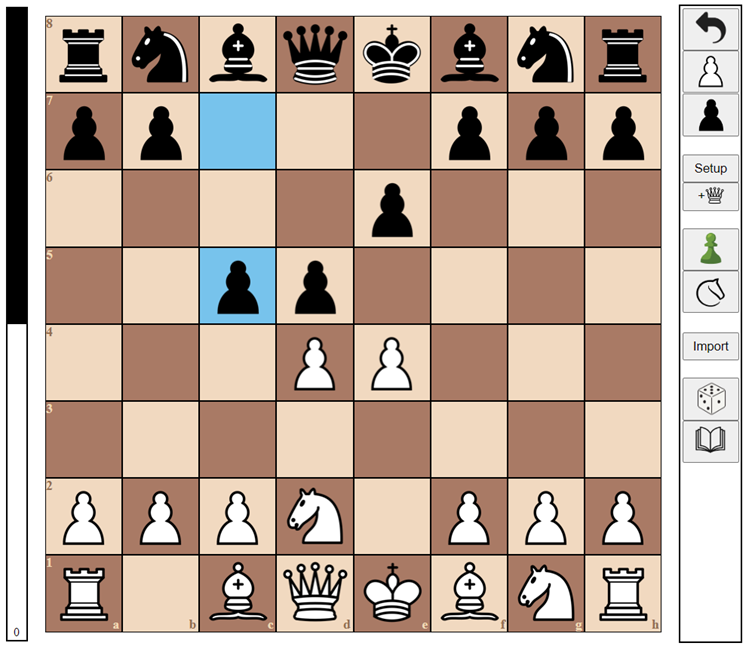
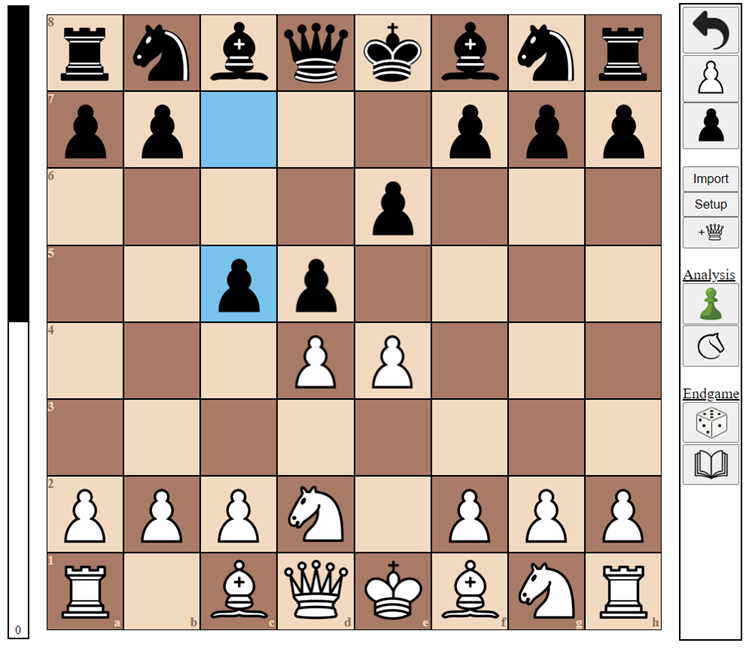
Added button resizing and improved fen validation

Changed region(s): [[0.0, 0.0, 1.0, 1.0]]

diff --git a/java_chess/index.html b/java_chess/index.html
@@ -29,21 +29,22 @@
             <div id="chess-board" style="margin-left: 20px; margin-right: 20px;"></div>
             
             <div style="outline: 2px solid black; padding: 2px; width: 60px; height: 94vh;">
-                <button onclick="undo_move()" style="height: 45px; width: 60px;"><img draggable="false" style="width: 36px; height: 36px;" src="../imgs/undo.png"></button>
-                <button onclick="start_game(true)" style="height: 45px; width: 60px;"><img draggable="false" style="width: 42px; height: 42px; margin-top: -3px;" src="../imgs/chess_pieces/0.png"></button>
-                <button onclick="start_game(false)" style="height: 45px; width: 60px;"><img draggable="false" style="width: 42px; height: 42px; margin-top: -3px;" src="../imgs/chess_pieces/6.png"></button>
+                <button onclick="undo_move()" style="height: 7.5%; width: 100%;"><img draggable="false" style="height: 100%;" src="../imgs/undo.png"></button>
+                <button onclick="start_game(true)" style="height: 7.5%; width: 100%;"><img draggable="false" style="height: 100%; margin-top: -3px;" src="../imgs/chess_pieces/0.png"></button>
+                <button onclick="start_game(false)" style="height: 7.5%; width: 100%;"><img draggable="false" style="height: 100%; margin-top: -3px;" src="../imgs/chess_pieces/6.png"></button>
                 <br></br>
-                <button id="setup" onclick="run_setup_board()" style="height: 30px; width: 60px;">Setup</button>
-                <button onclick="add_piece()" style="height: 30px; width: 60px;"><div style="margin-left: -20px;">+<img draggable="false" style="width: 20px; height: 20px; margin-top: -3px; position: absolute;" src="../imgs/chess_pieces/4.png"></div></button>
+                <button onclick="upload_game()" style="height: 4%; width: 100%;">Import</button>
+                <button id="setup" onclick="run_setup_board()" style="height: 4%; width: 100%;">Setup</button>
+                <button onclick="add_piece()" style="height: 5%; width: 100%;"><div style="height: 100%; margin-top: 6px; margin-left: -20px;">+<img draggable="false" style="height: 20px; margin-top: -3px; position: absolute;" src="../imgs/chess_pieces/4.png"></div></button>
                 <br></br>
-                <button onclick="open_chess_com()" style="height: 45px; width: 60px;"><img draggable="false" style="width: 36px; height: 36px;" src="../imgs/chesscom.png"></button>
-                <button onclick="open_lichess()" style="height: 45px; width: 60px;"><img draggable="false" style="width: 40px; height: 40px;" src="../imgs/lichess.png"></button>
+                <u>Analysis</u>
+                <button onclick="open_chess_com()" style="height: 6.5%; width: 100%;"><img draggable="false" style="height: 100%;" src="../imgs/chesscom.png"></button>
+                <button onclick="open_lichess()" style="height: 6.5%; width: 100%;"><img draggable="false" style="height: 100%;" src="../imgs/lichess.png"></button>
                 <br></br>
-                <button onclick="upload_game()" style="height: 30px; width: 60px;">Import</button>
-                <br></br>
-                <button onclick="play_rand_endgame(false)" style="height: 45px; width: 60px;"><img draggable="false" style="width: 46px; height: 38px;" src="../imgs/dice.png"></button>
-                <button onclick="play_rand_endgame(true)" style="height: 45px; width: 60px;"><img draggable="false" style="width: 40px; height: 34px;" src="../imgs/book.png"></button>
-                <div style="height: 205px; text-align: center; font-size: 12px; margin-top: 5px;" id="loading"></div>
+                <u>Endgame</u>
+                <button onclick="play_rand_endgame(false)" style="height: 6.5%; width: 100%;"><img draggable="false" style="margin-left: -2px; height: 100%;" src="../imgs/dice.png"></button>
+                <button onclick="play_rand_endgame(true)" style="height: 6.5%; width: 100%;"><img draggable="false" style="height: 100%;" src="../imgs/book.png"></button>
+                <div style="height: 22%; font-size: 12px; text-align: center; display: flex; justify-content: center; flex-direction: column;" id="loading"></div>
 
             </div>
         </div>

diff --git a/java_chess/chess.js b/java_chess/chess.js
@@ -1207,6 +1207,9 @@ function make_board(fen) {
     for (let i = 0; i < fen.length; i++) {
         let char = fen[i];
         if (char == " ") {
+            if (fen.length - i < 10) {
+                return [];
+            }
             let castle = [0, 0, 0, 0];
             let j = 3;
             while (fen[i + j] != " ") {
@@ -1252,6 +1255,7 @@ function make_board(fen) {
             curr_col++;
         }
     }
+    return [];
 }
 
 // Piece position variables
@@ -1550,13 +1554,7 @@ function pieceDrag(div, pos, pieceTurn, move_anywhere=false) {
                 GAME_MOVES.push(get_move_desc(move, moves));
                 GAME_HASH.push(hash_key);
 
-                let message = "LOADING";
-                let res = "<div>";
-                for (let i = 0; i < message.length; i++) {
-                    res += message[i] + "<br></br>";
-                }
-                res += "</div>";
-                document.getElementById("loading").innerHTML = res;
+                document.getElementById("loading").innerHTML = "LOADING";
                 
                 setTimeout(() => {  
 
@@ -1583,10 +1581,14 @@ function pieceDrag(div, pos, pieceTurn, move_anywhere=false) {
 
 function upload_game() {
     let fen = prompt("Enter fen:");
-    if (fen && fen.length < 19) { 
-        fen = START_FEN; 
+    if (fen) {
+        let test_board = make_board(fen);
+        if (!test_board || test_board.length == 0) {
+            alert("Invalid fen");
+            return;
+        }
+        start_game(true, fen);
     }
-    start_game(true, fen);
 }
 
 // API

diff --git a/java_chess/ai.js b/java_chess/ai.js
@@ -1191,15 +1191,12 @@ function search(depth) {
         }
         console.log(res);
     } 
-    if (TURN && PLAYER_WHITE) {
-        eval *= -1;
-    }
+    let end = Math.round(performance.now() - start);
     if (pv_table[0][0]) {
-        console.log("Best move: " + (get_move_desc(pv_table[0][0])) + ", eval: " + (eval));
+        console.log("Best move: " + (get_move_desc(pv_table[0][0])) + ", eval: " + (eval) + ", time (ms): " + (end));
     }
     console.log(" ");
-
-    return [eval, Math.round(performance.now() - start), generate_pseudo_moves()];
+    return [eval, end, generate_pseudo_moves()];
 }
 
 // MAIN -----------------------------------------------------------------------------------------------------------------------------------------------

diff --git a/README.md b/README.md
@@ -2,22 +2,22 @@
 
 ### ./java_chess 
 
-A chess GUI and handmade engine which utilises advanced search strategies such as bitboard board representation and minimax search with alpha beta pruning.
+A chess GUI and handmade engine written in Javascript which utilises advanced search strategies such as bitboard board representation and minimax search with alpha beta pruning. The AI makes use of a small openings book to ensure the same game doesn't get repeated every time.
 
 <img src="./imgs/webpage_screenshot.png" style="margin: auto;" alt="Java Chess" height="400"/>
 
 Interacts with the [Lichess API](https://lichess.org/api) to load the game into their computer analysis tool.
 
-Currently working on incorporating Stockfish evaluation and endgame tablebase for a more accurate AI to practice puzzles and strategies against. 
+Currently working on incorporating Stockfish evaluation and endgame tablebase lookup for a more accurate AI to practice puzzles and strategies against. 
 
 ### ./c_chess
 
-A conversion of the java_chess engine to c++ to compare the performance gains with a programming language that supports 64-bit integers, as is beneficial for chess board representation as a series of numbers. 
+A conversion of the java_chess engine to c++ to compare the performance gains in a programming language that supports 64-bit integers (ideal for bitboard board representation).
 
 ### Robotic Chess Board
 
-I am creating a physical chess board to allow my ./c_chess AI to be battled on a real board. The piece will be moved by a magnet underneath the board, operated by 2 stepper motors.
+I am creating a physical chess board to allow my ./c_chess AI to be battled on a real board. The pieces will be moved by a magnet underneath the board, operated by 2 stepper motors. Path plotting code is required so pieces being moved don't collide with other pieces on the board and can be found in the ./c_chess directory.
 
-I have developed chess pieces using a 3D printer which will eventually contain a RFID chip to identify the piece and a marget to move it around. The next step of this project is to create the physical board containing readers on each of the 64 squares.    
+I have developed chess pieces using a 3D printer which will eventually contain a RFID chip to identify the piece and a marget to move it around. The next step of this project is to create the physical board containing readers on each of the 64 squares so the engine can be loaded from any position.   
 
 <img src="./imgs/3d_printed_chess_pieces.jpg" style="margin: auto;" alt="3D Printed Chess Pieces" height="400"/>
